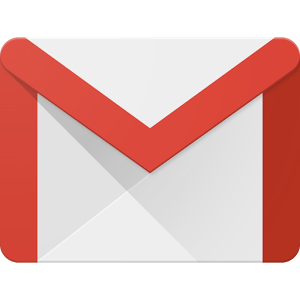
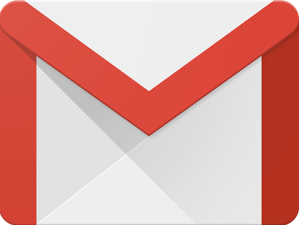
nice

diff --git a/index.html b/index.html
@@ -337,8 +337,8 @@
 				<div style="height: 6vh;"></div>
 
 				<div style="clear: both; display: inline-block; margin: 0 auto; color: #fff; ">
-					<a class="contactLink unscrolled"><img src="images/gmailIcon.png" style="height: auto; width: 128px; "></a>
-					<a class="contactLink unscrolled"><img src="images/linkedinIcon.png" style="height: auto; width: 128px; background: #fff; border-radius: 12px;"></a>
+					<a class="contactLink unscrolled"><img src="images/gmailIcon.png" class="contactIcon" style=" border-radius: 15px;"></a>
+					<a class="contactLink unscrolled"><img src="images/linkedinIcon.png" class="contactIcon" style=" border-radius: 15px;"></a>
 				</div>
 			</div>
 		</div>
@@ -595,23 +595,25 @@
 
 		var unscrolled = document.getElementsByClassName('unscrolled');
 
-	    $(document).on('scroll', function() {
-	    	if (($('#homeContainer').height()) > $(window).scrollTop()) {
-	        	$('#navContainer').removeClass('active');
-	        } else {
-	        	$('#navContainer').addClass('active');
-	        }
-	    });
+	    // $(document).on('scroll', function() {
+	    // 	if (($('#homeContainer').height()) > $(window).scrollTop()) {
+	    //     	$('#navContainer').removeClass('active');
+	    //     } else {
+	    //     	$('#navContainer').addClass('active');
+	    //     }
+	    // });
 
 	    var numScrolled = 0;
 
 		$(document).on('scroll', function() {
 
 			if (numScrolled < unscrolled.length) {
-	          if (($(unscrolled[numScrolled]).offset().top + ($(unscrolled[numScrolled]).height()) / 2) <= $(window).height() + $(window).scrollTop()) {
-	            $(unscrolled[numScrolled]).addClass('scrolled');
-	            numScrolled++;
-	          }
+				for (i = numScrolled; i < unscrolled.length; i++) {
+					if (($(unscrolled[i]).offset().top + ($(unscrolled[i]).height()) / 2) <= $(window).height() + $(window).scrollTop()) {
+					$(unscrolled[i]).addClass('scrolled');
+						numScrolled++;
+					}
+				}
 			}
 
 	     });

diff --git a/universal.css b/universal.css
@@ -853,8 +853,15 @@ a:hover {
 	float: left;
 }
 
-.contactLink:hover {
-	border-bottom: 5px solid #fff;
+.contactIcon {
+	width: auto;
+	height: 128px;
+	background: #fff;
+	transition: box-shadow 0.5s;
+}
+
+.contactIcon:hover {
+	box-shadow: 0px 0px 30px #fff;
 }
 
 /*==========================================================================*/
